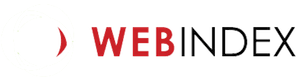
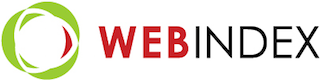
Header prototype

Changed region(s): [[0.3, 0.3038, 1.0, 0.7342], [0.0, 0.0, 0.27, 1.0]]

diff --git a/styles/main.css b/styles/main.css
@@ -430,30 +430,42 @@ article ul.tags {
     margin-top: 1em;
     margin-bottom: 1em; }
 
+header.site-header {
+  max-width: 68em;
+  margin-left: auto;
+  margin-right: auto;
+  max-width: 80em; }
+  header.site-header:after {
+    content: "";
+    display: table;
+    clear: both; }
+
 header.site-header .logo {
-  margin: 0.5em 0 0 0.5em;
+  margin: 1.5em 0 0 0;
   display: inline-block;
   float: left; }
 
 header.site-header .top {
-  background-color: #8BCE33;
-  background-image: url(../images/world-small.png);
-  background-size: cover;
+  background-color: white;
   padding: 0 0 0.3em 0;
   margin-bottom: 0;
   overflow: auto; }
 
-@media (min-width: 64em) {
-  header.site-header .top {
-    background-image: url(../images/world.png); } }
 header.site-header nav {
   overflow: auto;
   clear: right;
-  padding: 0 0.5em; }
+  padding: 1em 0.5em 1em 0;
+  border-bottom: 0.1em solid #bbb;
+  box-shadow: 0 0.3em 0.3em -0.2em #ddd;
+  width: intrinsic;
+  float: right; }
+  header.site-header nav div {
+    overflow: hidden;
+    width: intrinsic; }
 
 @media (min-width: 40em) {
   header.site-header nav {
-    padding: 0 1em; } }
+    padding: 1em 0 1em 1em; } }
 header.site-header nav ul {
   padding: 0;
   margin: 1em 0 0 0;
@@ -494,41 +506,28 @@ header.site-header nav li a:hover {
   header.site-header nav li a {
     display: inline-block; } }
 header.site-header nav li.current-menu-item a {
-  border-bottom: 0.5em solid #fff; }
+  border-bottom: 0.5em solid #e0272a; }
 
 header.site-header nav li a {
-  color: #fff;
+  color: #111;
   font-weight: 400;
   text-transform: lowercase; }
 
-/*
-header.site-header span.separator {
-  display: inline-block;
-  margin-left: 0.5em;
-  color: #666;
-}
-
-header.site-header span.separator {
-  display: none;
-}
-
-@media (min-width: 64em) {
-  header.site-header span.separator {
-    display: inline;
-  }
-}
-
-header.site-header li:last-child span.separator {
-  display: none;
-}
-*/
 /* BY */
 .by {
-  padding: 0.5em;
+  padding: 0.5em 0;
   margin: 0;
   text-align: right;
   font-weight: 300;
-  box-shadow: inset 0px 0.2em 0.3em -0.1em rgba(40, 40, 40, 0.6); }
+  max-width: 68em;
+  margin-left: auto;
+  margin-right: auto;
+  max-width: 80em;
+  display: none; }
+  .by:after {
+    content: "";
+    display: table;
+    clear: both; }
 
 .by img {
   vertical-align: middle;
@@ -539,7 +538,7 @@ p.donate {
   font-family: "Merriweather Sans", sans-serif !important;
   float: right;
   background-color: #e0272a;
-  margin: 0.5em 0 0 0;
+  margin: 0;
   text-transform: uppercase; }
 
 p.donate:hover {
@@ -806,6 +805,7 @@ div.illustrations {
 div.accordion {
   overflow: hidden;
   height: 28em;
+  margin-top: -0.4em;
   font-family: 'Raleway', sans-serif;
   position: relative;
   background-color: #47caaa; }
@@ -1782,7 +1782,8 @@ div.box-follow {
     color: white; }
 
 .data-right-content {
-  min-height: 60em; }
+  min-height: 60em;
+  margin-top: 2em; }
 
 /* COLLAPSABLE */
 .collapsable {
@@ -2547,7 +2548,8 @@ body.noscroll {
 
 body {
   font-family: Raleway, sans-serif;
-  color: #333;
+  color: #111;
+  background-color: white;
   margin: 0;
   position: inherit !important;
   top: 0 !important; }
@@ -2560,6 +2562,7 @@ body {
   margin-left: auto;
   margin-right: auto;
   max-width: 80em;
+  margin-top: 2em;
   height: 100%;
   overflow: hidden; }
   .container:after {
